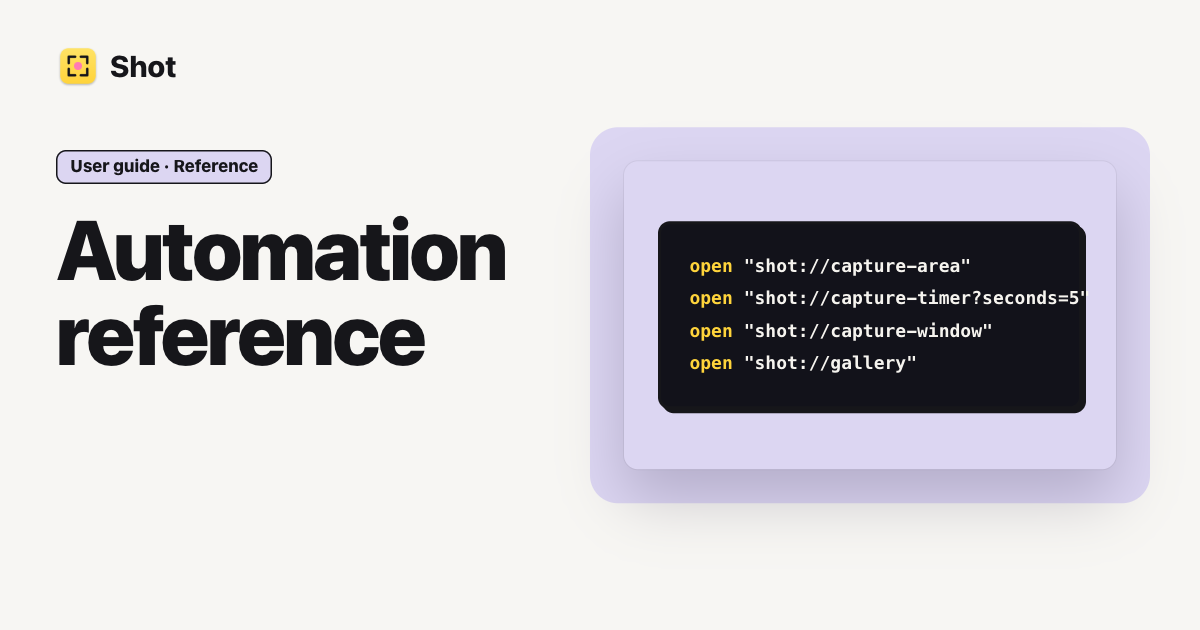
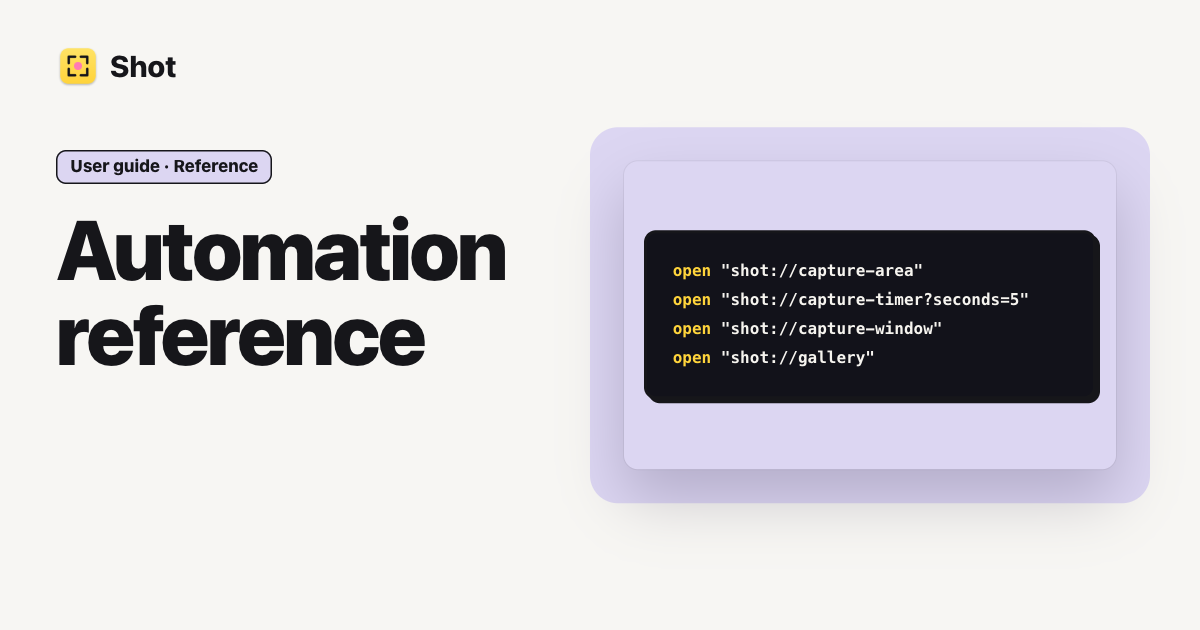
site: fix the social cards the reshoot broke and add the missing ones (#1411)
Fixes the social cards that the 1.0 reshoot (#1409) broke, and gives the
remaining pages cards of their own.

## Fixes

- **Gallery cards:** Organise your captures now crops to the sidebar and
the two captures, and Find your captures to the search field, the "2 of
4" heading and the results. The old crop showed a mostly empty window.
- **Settings:** crops to the sidebar and the top of General, so the rows
are readable at preview size.
- **Automation reference and Removing Shot:** the commands are a size
smaller, so the longest line no longer runs past the panel.
- **Share a capture with an AI assistant:** a scene of its own, a chat
message with the marked-up order from `editor.png` and a question about
it, instead of the home card's scene. The home scene is also scaled a
little so its badges stay inside the card.
- **Dark mode:** `npm run og` now asks Chrome for the light scheme, so
it draws the same cards on a Mac set to dark.

## New cards

The changelog, `/privacy/` and the screenshot apps page had no card and
shared the home one. They now have `page-changelog.png`,
`page-privacy.png` and `page-screenshot-apps.png` (prefixed, since the
guide already has a `privacy` card), with their own alt text.

## Metadata

A `noindex` page (the 404) no longer sets a canonical link to `/404/`.

Checked by building the site and reading the generated tags.
`scripts/lint.sh` passes.

Closes #1410

---------

Changed region(s): [[0.5242, 0.3317, 0.925, 0.6635]]

diff --git a/docs/architecture/website.md b/docs/architecture/website.md
@@ -6,7 +6,7 @@ Read this before changing `site/` or the user guide.
 - The site's look follows the redesign's Website boards, whose values are in [the redesign spec](../redesign/spec.md) under Website values. [`site/DESIGN.md`](../../site/DESIGN.md) says how the site uses them, and the tokens and every shared component (`.button`, `.card`, `.ink-card`, `.panel.sand` and the rest) are classes in `site/src/styles/global.css`, so a page needs no CSS of its own.
 - The tokens follow the app's light colours: a warm off-white page (`--bg`), white cards (`--surface`), near-black ink (`--ink`, `--line`) and yellow as the only accent (`--accent`, with `--on-accent` text). Red (`--record`, `--red-text`) is for Shot's own marks, such as the numbered badges. The five pastels (`--sand`, `--lilac`, `--sky-panel`, `--blush`, `--sage`) sit behind product shots only. Dark mode follows the visitor's system and uses the app's dark neutrals, with the pastels mixed into the card colour. Sticky notes (`--note`), callouts and the changelog's scope tags (`--tag-capture` and the others) keep their light colours in dark.
 - One ink control per section, as in the app: the 2px outline, the 4px drop and the yellow go on the action you'd take next, and everything else is a quiet card or a secondary button. `scripts/lint.sh` rejects a card with one thick coloured edge.
-- The social cards (`npm run og`, `site/scripts/og.mjs`) reuse `global.css` and `HeroStage.astro`. Their drawn scenes' bright fills (`--og-pink`, `--og-mint` and the rest) are defined in `og.mjs`, since the site itself keeps to its pastels.
+- The social cards (`npm run og`, `site/scripts/og.mjs`) reuse `global.css` and `HeroStage.astro`. Their drawn scenes' bright fills (`--og-pink`, `--og-mint` and the rest) are defined in `og.mjs`, since the site itself keeps to its pastels. Each guide page's card shows a crop of its screenshot or a drawn scene from `scenes`, and the changelog, `/privacy/` and screenshot apps pages have `page-<name>.png` cards. The script always renders the light scheme. Rerun it and commit the cards when a guide page is added or retitled, or when a screenshot a card crops is reshot.
 - Motion is CSS only, using the spec's tokens (`--press`, `--pop`, `--sweep`, `--draw`, `--hover-ease`). All of it sits behind `prefers-reduced-motion: no-preference`, so Reduce Motion shows the page still. Give `animation-timeline` and `animation-range` a rule of their own, more specific than the one with the `animation` shorthand: in the same rule the minifier folds them into the shorthand, which can't hold them, and browsers drop it, which is why `.reveal` and `.pop.on-view` never moved before #1280. The only scripts are the copy buttons, the guide's search, the loops' play and pause, the "On this page" marker and closing the phone menu with Escape.
 - The user guide lives in `site/src/guide/`, one Markdown file per page at `/docs/<slug>/`, in file name order. Each file's front matter gives its `title`, a one-line `summary` and its `group`. The groups, with each one's marker colour and the pastel behind its screenshots, are in `site/src/lib/guide-files.ts`.
 - A page's address comes from its title, so when you rename a page, add its old slug to an `aliases` list in its front matter and the build redirects the old address to it.
